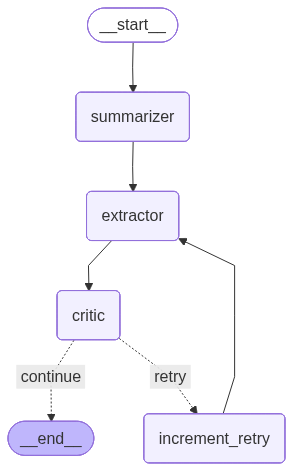
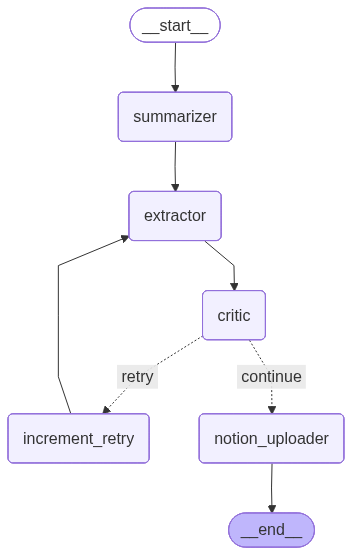
Notion task creation

diff --git a/graph.py b/graph.py
@@ -4,7 +4,10 @@ from langchain_nvidia_ai_endpoints import ChatNVIDIA
 from dotenv import load_dotenv
 import os
 import json
+from meeting_agent import notion_uploader
+from datetime import datetime
 
+today = datetime.now().strftime("%Y-%m-%d")
 load_dotenv()
 
 with open("transcript.txt", "r", encoding="utf-8") as f:
@@ -28,6 +31,7 @@ class MeetingState(TypedDict):
     transcript: str
     summary: str
     action_items: list
+    approved_items: list
     critic_approved: bool
     critic_feedback: str
     retry_count: int
@@ -54,72 +58,119 @@ def summarizer(state):
     """)
     return {**state, "summary": response.content}
 
-
 def extractor(state):
     print("🔵 Ext fut...")
     feedback = state.get("critic_feedback", "")
-    feedback_section = f"""
-        Az előző próbálkozásban ezek voltak a hibák, javítsd őket:
-        {feedback}
-    """ if feedback else ""
-    response = critic_llm.invoke(f"""
-        Az alábbi meeting transzkriptből nyerd ki az összes action itemet.
+    rejected_items = state.get("action_items", [])
+    
+    if feedback:
+        input_section = f"""
+            Javítandó itemek:
+            {json.dumps(rejected_items, ensure_ascii=False)}
+            
+            Hibák amiket javítani kell:
+            {feedback}
+        """
+        transcript_section = ""
+    else:
+        input_section = ""
+        transcript_section = f"""
+            Transzkript:
+            {state['transcript']}
+        """
+
+    response = llm.invoke(f"""
+        {"Az alábbi hibás action itemeket javítsd ki." if feedback else "Az alábbi meeting transzkriptből nyerd ki az összes action itemet."}
         
+        Mai dátum: {today}
+        Ha a szövegben "holnap", "jövő héten" szerepel, számold ki a pontos dátumot!
+
         SZIGORÚ SZABÁLYOK:
         - Csak JSON formátumban válaszolj, semmi más szöveg!
-        - Minden taskhoz legyen: task, assignee, deadline
-        - A deadline formátuma: YYYY-MM-DD
-        - Ha olyan feladatot találsz amihez nincs a szövegben konkrét felelős vagy deadline az NEM kell
+        - Minden taskhoz legyen: task, assignee, deadline, priority
+        - A deadline formátuma KIZÁRÓLAG: YYYY-MM-DD
+        - Ha nincs konkrét felelős vagy deadline, hagyd ki!
+        - A priority értéke KIZÁRÓLAG: High, Medium, Low
+        - High: kritikus, sürgős, blokkol mást, biztonsági rés
+        - Medium: közepesen sürgős
+        - Low: nincs utalás sürgősségre
         
         Példa helyes output:
         [
-            {{"task": "Bevásárlás a bulira", "assignee": "Lola", "deadline": "2026-03-15"}},
-            {{"task": "Takarítás", "assignee": "Anna", "deadline": "2026-03-28"}}
+            {{"task": "Bevásárlás a bulira", "assignee": "Lola", "deadline": "2026-03-15", "priority": "High"}},
+            {{"task": "Takarítás", "assignee": "Anna", "deadline": "2026-03-28", "priority": "Low"}}
         ]
         
-        {feedback_section}                  
-
-        Transzkript:
-        {state['transcript']}
+        {input_section}
+        {transcript_section}
         
         JSON output:
     """)
     
     raw = response.content.strip().removeprefix("```json").removesuffix("```").strip()
-    action_items = json.loads(raw)
     
+    try:
+        action_items = json.loads(raw)
+    except Exception as e:
+        print(f"⚠ JSON parsing hiba: {e}")
+        action_items = rejected_items
+    
+    print("✅ Ext kész!")
     return {**state, "action_items": action_items}
 
 
 def critic(state):
-    print("🔵 Crit fut...")
+    print(f"🔵 Crit fut...")
     response = critic_llm.invoke(f"""
-        Ellenőrizd hogy az alábbi action itemek teljesek-e a transzkript alapján.
+        Ellenőrizd az alábbi action itemeket a transzkript alapján.
+                                 
+        Mai dátum: {today}
+        Ha a szövegben "holnap", "jövő héten" szerepel, számold ki a pontos dátumot!
+        
+        MINDEN itemhez add vissza:
+        - az eredeti item összes mezőjét
+        - egy "approved" mezőt: true ha helyes, false ha hibás
+        - egy "feedback" mezőt: ha false, mi a probléma; ha true, üres string
         
         SZABÁLYOK:
-        - Ha minden rendben, írj APPROVED: true-t és ne írj FEEDBACK-et
-        - Ha van hiba, írj APPROVED: false-t és CSAK a hibákat sorold fel
-        - A deadline KIZÁRÓLAG YYYY-MM-DD formátumú lehet, ha nem az, az hiba
-        - Ne írd le mi egyezik, CSAK ami hibás vagy hiányzik!
+        - deadline KIZÁRÓLAG YYYY-MM-DD formátumú lehet
+        - priority KIZÁRÓLAG High, Medium, Low lehet
+        - Ne találj ki hibát ami nincs!
         
-        VÁLASZOD pontosan így nézzen ki:
-        APPROVED: true vagy false
-        FEEDBACK: [csak a hibák felsorolva, semmi más]
+        Csak JSON formátumban válaszolj, semmi más szöveg!
+        
+        Példa output:
+        [
+            {{"task": "Buli", "assignee": "Anna", "deadline": "2026-03-10", "priority": "High", "approved": true, "feedback": ""}},
+            {{"task": "bevásárlás", "assignee": "Anna", "deadline": "2029.12.01", "priority": "Low", "approved": false, "feedback": "deadline nem YYYY-MM-DD formátumú"}}
+        ]
         
         Transzkript:
         {state['transcript']}
         
-        Jelenlegi action itemek:
+        Action itemek:
         {json.dumps(state['action_items'], ensure_ascii=False)}
     """)
     
-    raw = response.content.strip()
-    approved = "APPROVED: true" in raw
-    feedback_part = raw.split("FEEDBACK:")[-1].strip() if "FEEDBACK:" in raw else ""
-    print(f"📝 Critic feedback: {feedback_part}")
+    raw = response.content.strip().removeprefix("```json").removesuffix("```").strip()
     
-    retry_count = state.get("retry_count", 0)
-    return {**state, "critic_approved": approved, "retry_count": retry_count, "critic_feedback": feedback_part} 
+    try:
+        reviewed_items = json.loads(raw)
+    except Exception as e:
+        print(f"⚠ JSON parsing hiba: {e}")
+        reviewed_items = [{**item, "approved": True, "feedback": ""} for item in state["action_items"]]
+    
+    approved_items = state.get("approved_items", []) + [i for i in reviewed_items if i.get("approved")]
+    rejected_items = [i for i in reviewed_items if not i.get("approved")]
+    
+    all_approved = len(rejected_items) == 0
+    feedback = "\n".join([f"- {i['task']}: {i['feedback']}" for i in rejected_items])
+    
+    print(f"✅ {len(approved_items)} item jóváhagyva, {len(rejected_items)} visszautasítva")
+    if feedback:
+        print(f"📝 Feedback: {feedback}")
+    
+    return {**state, "action_items": rejected_items, "approved_items": approved_items, "critic_approved": all_approved, "retry_count": state.get("retry_count", 0), "critic_feedback": feedback}
 
 
 def should_retry(state):
@@ -140,18 +191,22 @@ builder.add_edge("summarizer", "extractor")
 builder.add_node("critic", critic)
 builder.add_edge("extractor", "critic")
 builder.add_node("increment_retry", increment_retry)
+builder.add_node("notion_uploader", notion_uploader)
 builder.add_conditional_edges("critic", should_retry, {
     "retry": "increment_retry",
-    "continue": END
+    "continue": "notion_uploader"
 })
 builder.add_edge("increment_retry", "extractor")
+builder.add_edge("notion_uploader", END)
 graph = builder.compile()
 
 result = graph.invoke({
     "transcript": transcript,
     "summary": "",
     "action_items":[],
+    "approved_items":[],
     "critic_approved": False,
+    "critic_feedback":"",
     "retry_count": 0
 })
 
@@ -159,5 +214,5 @@ print(f"Summary result: {result["summary"]}")
 print(f"\n\nAction Items: {result["action_items"]}")
 print(f"\n\nCritic verdict: {result["critic_approved"]}")
 
-with open("graph.png", "wb") as f:
-    f.write(graph.get_graph().draw_mermaid_png())
+"""with open("graph.png", "wb") as f:
+    f.write(graph.get_graph().draw_mermaid_png())"""

diff --git a/meeting_agent.py b/meeting_agent.py
@@ -6,28 +6,53 @@ load_dotenv()
 
 NOTION_TOKEN = os.getenv("NOTION_TOKEN")
 DATABASE_ID = os.getenv("DATABASE_ID")
+TASK_TRACKER_ID = os.getenv("TASK_TRACKER_ID")
+SUMMARY_PAGE_ID = os.getenv("SUMMARY_PAGE_ID")
 
 notion = Client(auth=NOTION_TOKEN)
 
-tasks = [
-    {"task": "Frontend dizájn véglegesítése", "assignee": "Kovács Anna", "deadline": "2025-03-15"},
-    {"task": "API dokumentáció megírása", "assignee": "Nagy Péter", "deadline": "2025-03-20"},
-    {"task": "Tesztesetek elkészítése", "assignee": "Szabó Balázs", "deadline": "2025-03-18"},
-]
-
-for t in tasks:
+def notion_uploader(state):
+    print("🔵 Notion feltöltés fut...")
+    
     notion.pages.create(
-        parent={"database_id": DATABASE_ID},
+        parent={"page_id": SUMMARY_PAGE_ID},
         properties={
-            "Name": {
-                "title": [{"text": {"content": t["task"]}}]
-            },
-            "Assignee": {
-                "rich_text": [{"text": {"content": t["assignee"]}}]
-            },
-            "Date of Meeting": {
-                "date": {"start": t["deadline"]}
+            "title": {
+                "title": [{"text": {"content": "Meeting összefoglaló"}}]
             }
-        }
+        },
+        children=[
+            {
+                "object": "block",
+                "type": "paragraph",
+                "paragraph": {
+                    "rich_text": [{"type": "text", "text": {"content": state["summary"]}}]
+                }
+            }
+        ]
     )
-    print(f"Létrehozva: {t['task']}")
+    
+    for item in state["approved_items"]:
+        print(f"Feltöltés: {item}")
+        notion.pages.create(
+            parent={"database_id": DATABASE_ID},
+            properties={
+                "Task Name": {
+                    "title": [{"text": {"content": item["task"]}}]
+                },
+                "Assignee": {
+                    "rich_text": [{"text": {"content": item["assignee"]}}]
+                },
+                "Due Date": {
+                    "date": {"start": item["deadline"]}
+                },
+                "Status": {
+                    "status": {"name": "Not started"}
+                },
+                "Priority": {
+                    "select": {"name": item.get("priority", "Low")}
+                }
+            }
+        )
+    
+    return state
